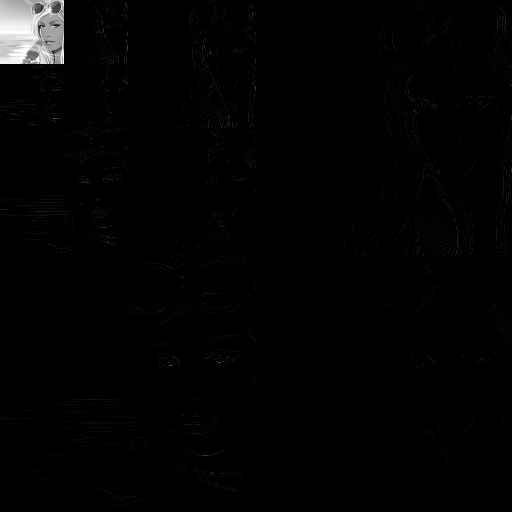
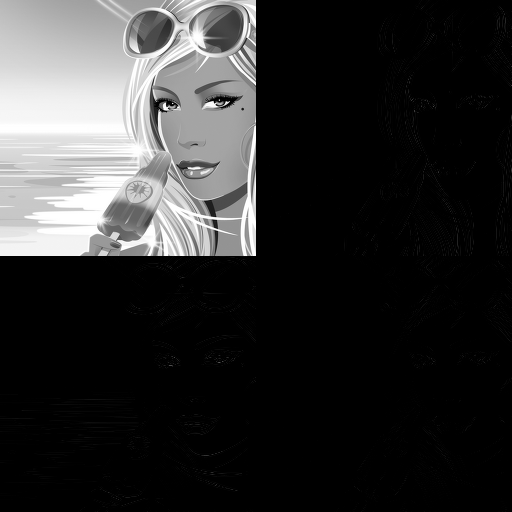
testing wavelet97lift which needed to chg from 2dwavelet97lift to do the import

Changed region(s): [[0.0, 0.0, 0.5, 0.5]]

diff --git a/python_dwt/wavelet97lift.py b/python_dwt/wavelet97lift.py
@@ -1,0 +1,210 @@
+'''
+2D CDF 9/7 Wavelet Forward and Inverse Transform (lifting implementation)
+
+This code is provided "as is" and is given for educational purposes.
+2008 - Kris Olhovsky - code.inquiries@olhovsky.com
+'''
+
+from PIL import Image # Part of the standard Python Library
+        
+''' Example matrix as a list of lists: '''
+mat4x4 = [                 
+         [0,   1,  2,  3], # Row 1
+         [4,   5,  6,  7], # Row 2
+         [8,   9, 10, 11], # Row 3
+         [12, 13, 14, 15], # Row 4
+         ]                 # We don't do anything with this matrix.
+                           # It's just here for clarification.
+                           
+def fwt97_2d(m, nlevels=1):
+    ''' Perform the CDF 9/7 transform on a 2D matrix signal m.
+    nlevel is the desired number of times to recursively transform the 
+    signal. '''
+    
+    w = len(m[0])
+    h = len(m)
+    for i in range(nlevels):
+        m = fwt97(m, w, h) # cols
+        m = fwt97(m, w, h) # rows
+        w /= 2
+        h /= 2
+    
+    return m
+
+
+def iwt97_2d(m, nlevels=1):
+    ''' Inverse CDF 9/7 transform on a 2D matrix signal m.
+        nlevels must be the same as the nlevels used to perform the fwt.
+    '''
+    
+    w = len(m[0])
+    h = len(m)
+
+    # Find starting size of m:
+    for i in range(nlevels-1):
+        h /= 2
+        w /= 2
+        
+    for i in range(nlevels):
+        m = iwt97(m, w, h) # rows
+        m = iwt97(m, w, h) # cols
+        h *= 2
+        w *= 2
+    
+    return m
+
+
+def fwt97(s, width, height):
+    ''' Forward Cohen-Daubechies-Feauveau 9 tap / 7 tap wavelet transform   
+    performed on all columns of the 2D n*n matrix signal s via lifting.
+    The returned result is s, the modified input matrix.
+    The highpass and lowpass results are stored on the left half and right
+    half of s respectively, after the matrix is transposed. '''
+        
+    # 9/7 Coefficients:
+    a1 = -1.586134342
+    a2 = -0.05298011854
+    a3 = 0.8829110762
+    a4 = 0.4435068522
+    
+    # Scale coeff:
+    k1 = 0.81289306611596146 # 1/1.230174104914
+    k2 = 0.61508705245700002 # 1.230174104914/2
+    # Another k used by P. Getreuer is 1.1496043988602418
+        
+    for col in range(width): # Do the 1D transform on all cols:
+        ''' Core 1D lifting process in this loop. '''
+        ''' Lifting is done on the cols. '''
+        
+        # Predict 1. y1
+        for row in range(1, height-1, 2):
+            s[row][col] += a1 * (s[row-1][col] + s[row+1][col])   
+        s[height-1][col] += 2 * a1 * s[height-2][col] # Symmetric extension
+        
+        # Update 1. y0
+        for row in range(2, height, 2):
+            s[row][col] += a2 * (s[row-1][col] + s[row+1][col])
+        s[0][col] +=  2 * a2 * s[1][col] # Symmetric extension
+        
+        # Predict 2.
+        for row in range(1, height-1, 2):
+            s[row][col] += a3 * (s[row-1][col] + s[row+1][col])
+        s[height-1][col] += 2 * a3 * s[height-2][col]
+        
+        # Update 2.
+        for row in range(2, height, 2):
+            s[row][col] += a4 * (s[row-1][col] + s[row+1][col])
+        s[0][col] += 2 * a4 * s[1][col]
+                
+    # de-interleave
+    temp_bank = [[0]*width for i in range(height)]
+    for row in range(height):
+        for col in range(width):
+            # k1 and k2 scale the vals
+            # simultaneously transpose the matrix when deinterleaving
+            if row % 2 == 0: # even
+                temp_bank[col][row/2] = k1 * s[row][col]
+            else:            # odd
+                temp_bank[col][row/2 + height/2] = k2 * s[row][col]
+                
+    # write temp_bank to s:
+    for row in range(width):
+        for col in range(height):
+            s[row][col] = temp_bank[row][col]
+                
+    return s
+
+
+def iwt97(s, width, height):
+    ''' Inverse CDF 9/7. '''
+    
+    # 9/7 inverse coefficients:
+    a1 = 1.586134342
+    a2 = 0.05298011854
+    a3 = -0.8829110762
+    a4 = -0.4435068522
+    
+    # Inverse scale coeffs:
+    k1 = 1.230174104914
+    k2 = 1.6257861322319229
+    
+    # Interleave:
+    temp_bank = [[0]*width for i in range(height)]
+    for col in range(width/2):
+        for row in range(height):
+            # k1 and k2 scale the vals
+            # simultaneously transpose the matrix when interleaving
+            temp_bank[col * 2][row] = k1 * s[row][col]
+            temp_bank[col * 2 + 1][row] = k2 * s[row][col + width/2]
+                
+    # write temp_bank to s:
+    for row in range(width):
+        for col in range(height):
+            s[row][col] = temp_bank[row][col]
+
+                
+    for col in range(width): # Do the 1D transform on all cols:
+        ''' Perform the inverse 1D transform. '''
+        
+        # Inverse update 2.
+        for row in range(2, height, 2):
+            s[row][col] += a4 * (s[row-1][col] + s[row+1][col])
+        s[0][col] += 2 * a4 * s[1][col]
+        
+        # Inverse predict 2.
+        for row in range(1, height-1, 2):
+            s[row][col] += a3 * (s[row-1][col] + s[row+1][col])
+        s[height-1][col] += 2 * a3 * s[height-2][col]
+
+        # Inverse update 1.
+        for row in range(2, height, 2):
+            s[row][col] += a2 * (s[row-1][col] + s[row+1][col])
+        s[0][col] +=  2 * a2 * s[1][col] # Symmetric extension
+        
+        # Inverse predict 1.
+        for row in range(1, height-1, 2):
+            s[row][col] += a1 * (s[row-1][col] + s[row+1][col])   
+        s[height-1][col] += 2 * a1 * s[height-2][col] # Symmetric extension
+                
+    return s
+
+
+def seq_to_img(m, pix):
+    ''' Copy matrix m to pixel buffer pix.
+    Assumes m has the same number of rows and cols as pix. '''
+    for row in range(len(m)):
+        for col in range(len(m[row])):
+            pix[col,row] = m[row][col]
+            
+            
+if __name__ == "__main__":
+    # Load image.
+    im = Image.open("test1_512.png") # Must be a single band image! (grey)
+
+    # Create an image buffer object for fast access.
+    pix = im.load()
+    
+    # Convert the 2d image to a 1d sequence:
+    m = list(im.getdata())
+        
+    # Convert the 1d sequence to a 2d matrix.
+    # Each sublist represents a row. Access is done via m[row][col].
+    m = [m[i:i+im.size[0]] for i in range(0, len(m), im.size[0])]
+    
+    # Cast every item in the list to a float:
+    for row in range(0, len(m)):
+        for col in range(0, len(m[0])):
+            m[row][col] = float(m[row][col])
+                
+    # Perform a forward CDF 9/7 transform on the image:
+    m = fwt97_2d(m, 3)
+    
+    seq_to_img(m, pix) # Convert the list of lists matrix to an image.
+    im.save("test1_512_fwt.png") # Save the transformed image.
+    
+    # Perform an inverse transform:
+    m = iwt97_2d(m, 3)
+    
+    seq_to_img(m, pix) # Convert the inverse list of lists matrix to an image.
+    im.save("test1_512_iwt.png") # Save the inverse transformation.
+    

diff --git a/python_dwt/lift.py b/python_dwt/lift.py
@@ -1,0 +1,68 @@
+from myhdl import *
+
+import pylab
+import scipy
+import scipy.misc as sg_m
+import scipy.signal as sg
+import numpy as np
+
+import  wavelet97lift
+def wr_img(sz,img_ar):
+ 
+	f = open('test.pgm','w')
+	f.write(hs0)
+	f.write(hs1)
+	f.write(hs2)
+	f.write(hs3) 
+	for i in range(sz):
+		for j in range(sz):
+			ele = str(img_ar[i,j])
+			f.write(ele)
+	f.close()	
+def get_col(col_ind,img,wr_img_sz):
+	#print col_ind
+	for i in range(w_img_sz):
+		col[i] = img[i,col_ind]
+	return col
+		
+def get_row(row_id,img,w_img_sz):
+	#print row_ind
+	for j in range(w_img_sz):
+		row[j] = img[row_id,j]
+	return row	 
+
+def get_img(f):		
+	for i in range(256):
+		for j in range(256):
+			#print ord(f.read(1))
+			img[i,j] =  ord(f.read(1))
+			#print i,j	
+	return img
+ar_size = (256,256)	
+img = np.zeros(ar_size,dtype=np.int) 
+s = np.zeros(ar_size,dtype=np.float) 	
+f = open('../lena_256.pgm','r')
+hs0 = f.readline()
+hs1 = f.readline()
+hs2 = f.readline()
+hs3 = f.readline()
+print hs0
+print hs1
+print hs2
+
+print hs3
+img = get_img(f)
+f.close()
+for i in range(img.shape[0]):
+	for j in range(img.shape[1]):
+		s[i,j] = float(img[i,j])	
+print s
+width, height= s.shape
+#fwt97(s, width, height)
+#s = wavelet97lift.fwt97(s, width, height)
+s = wavelet97lift.fwt97_2d(s)
+print s
+print s.shape
+wr_img(256,s)
+#wavelet97lift.seq_to_img(s, pix)
+#im.save("test1_256.png")

diff --git a/python_dwt/test_wavelet97lift.py b/python_dwt/test_wavelet97lift.py
@@ -1,0 +1,16 @@
+
+import  wavelet97lift
+im = wavelet97lift.Image.open("test1_512.png")
+pix = im.load()
+m = list(im.getdata())
+m = [m[i:i+im.size[0]] for i in range(0, len(m), im.size[0])]
+# Cast every item in the list to a float:
+for row in range(0, len(m)):
+	for col in range(0, len(m[0])):
+		m[row][col] = float(m[row][col])
+                
+# Perform a forward CDF 9/7 transform on the image:
+m = wavelet97lift.fwt97_2d(m, 1)
+    
+wavelet97lift.seq_to_img(m, pix) # Convert the list of lists matrix to an image.
+im.save("test1_512_fwt.png") # Save the transformed image.
